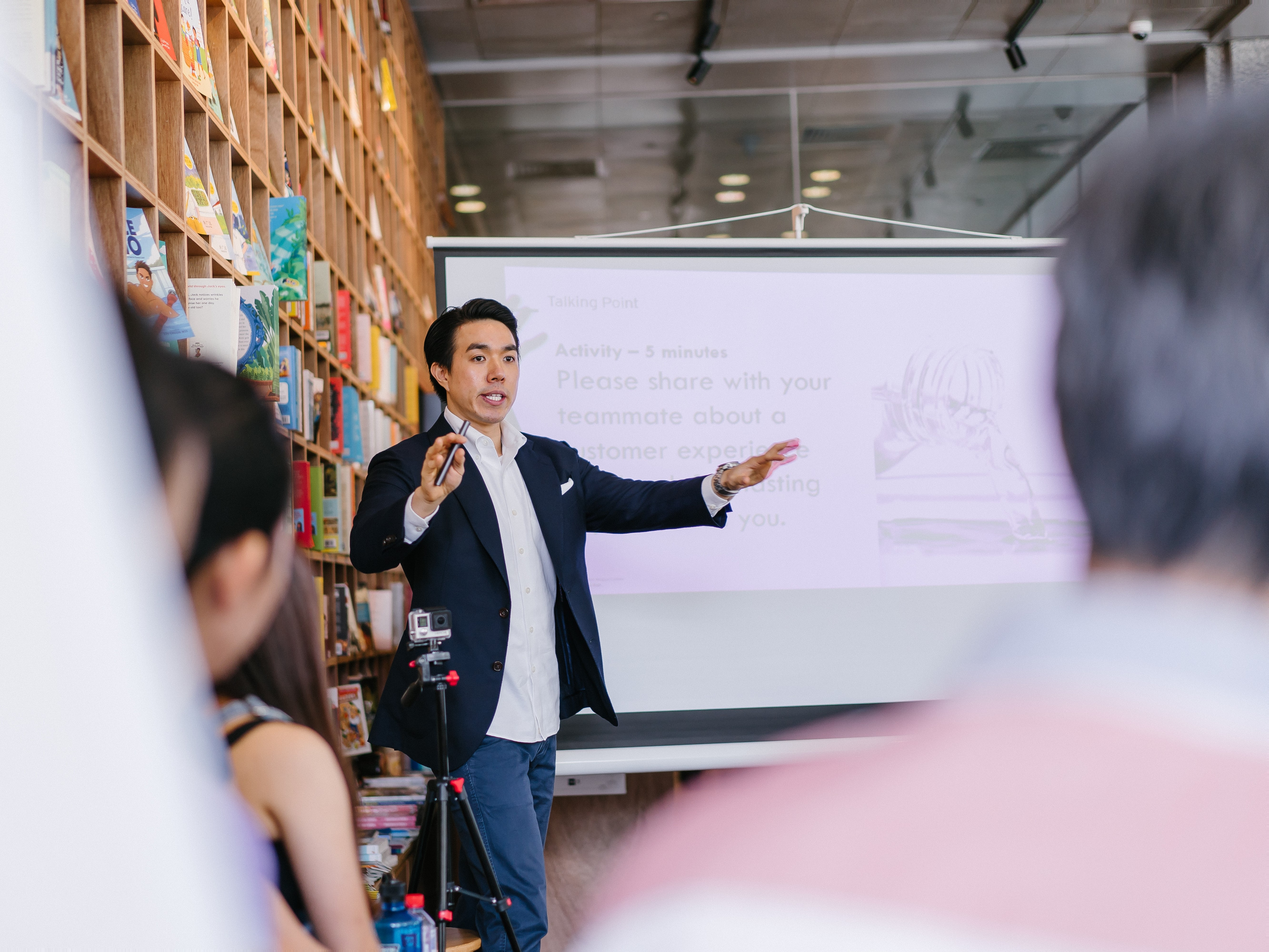
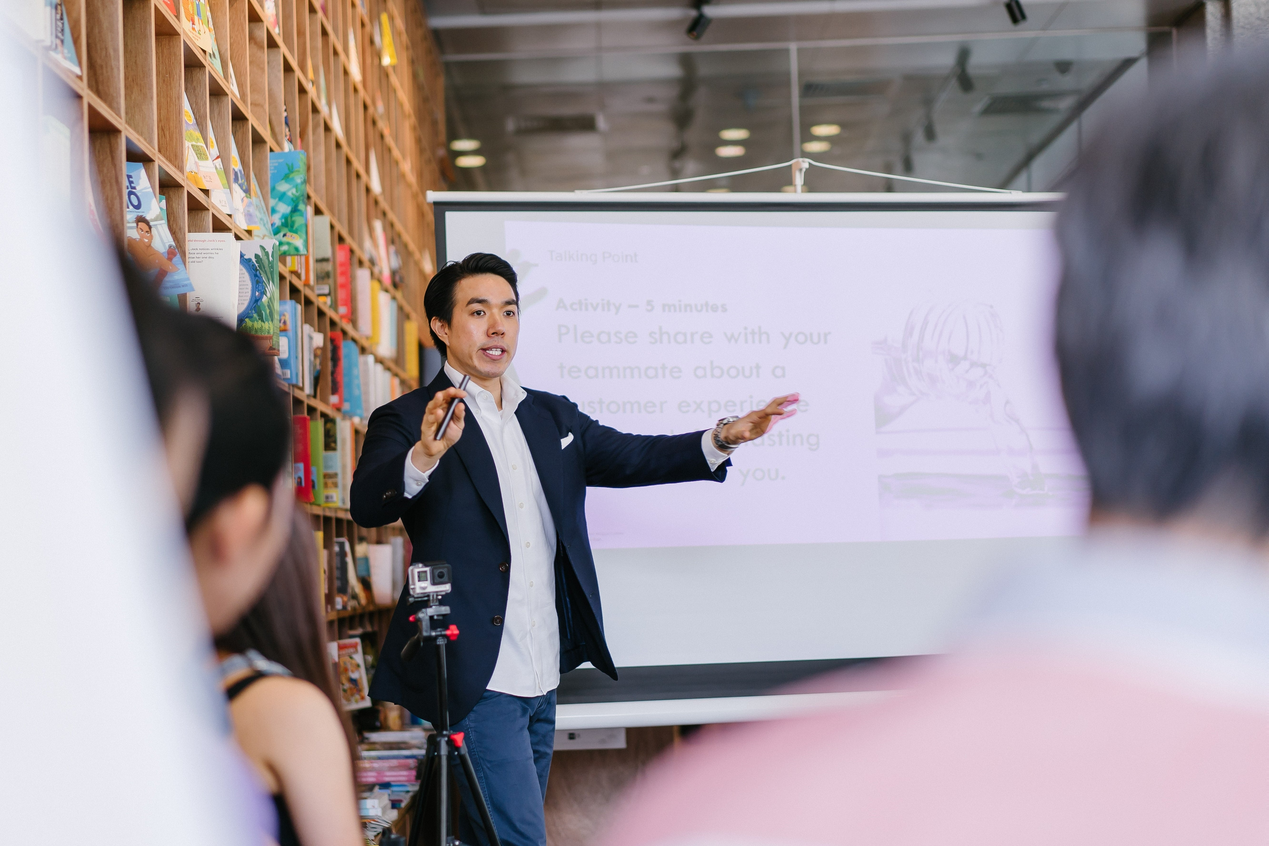
programs 2 + images

diff --git a/g-inc/programs/programs 2/programs.html b/g-inc/programs/programs 2/programs.html
@@ -76,7 +76,7 @@
                 <!-- <button>Learn More »</button> -->
             </div>
 
-            <img class="program-img" src="./images/desert.jpg" alt="programs">
+            <img class="program-img" src="./big-class-1.jpg" alt="programs">
         </div>
     </div>
 </body>
